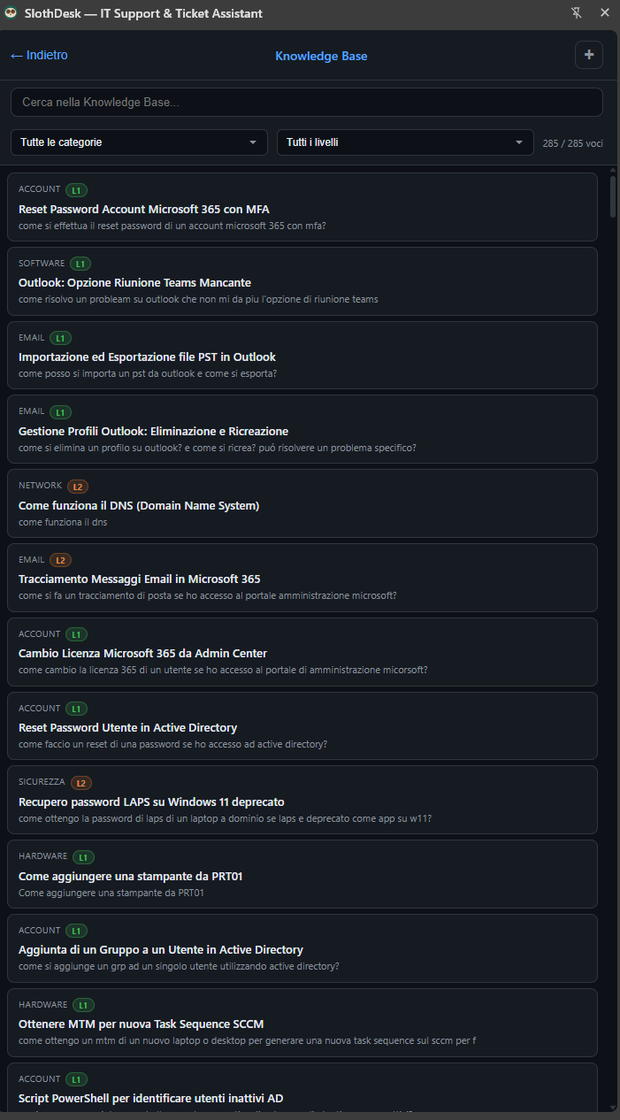
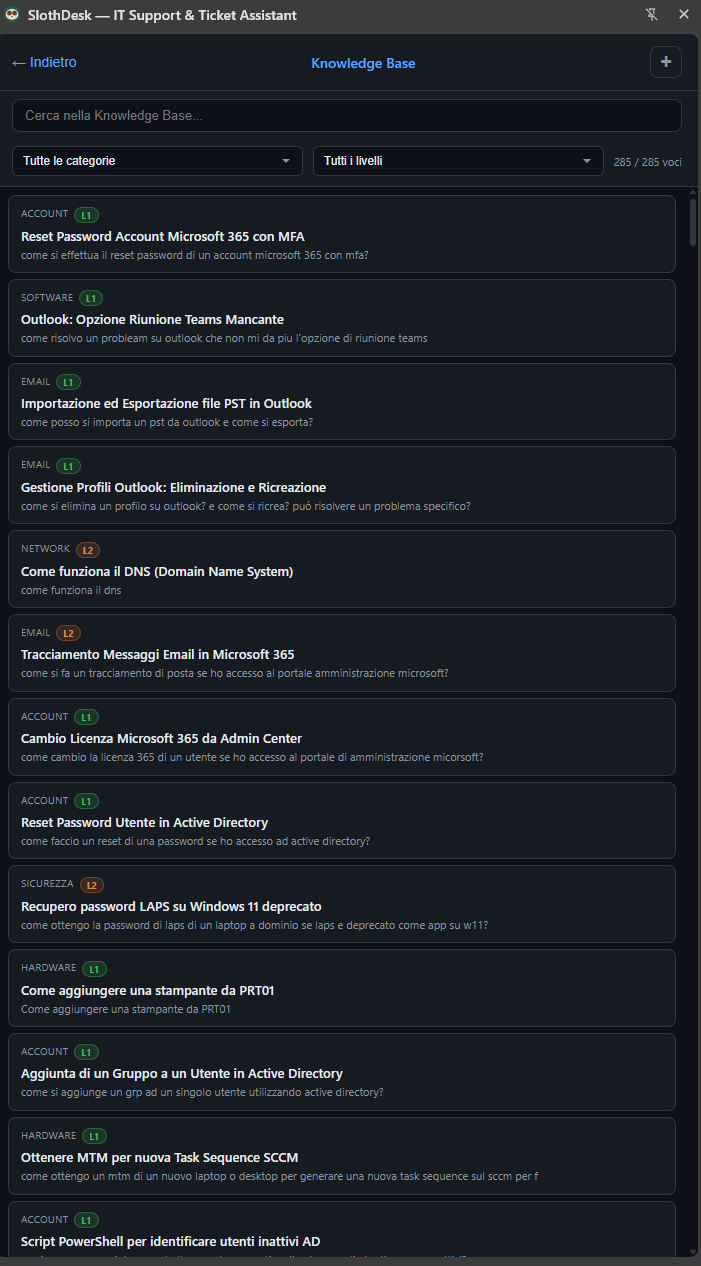
feat(slothdesk): le schermate si ingrandiscono
Le miniature erano illeggibili e non si apriva nulla al clic. Ora
ciascuna apre a schermo intero, con frecce per passare da una
all'altra, chiusura con Esc o clic sullo sfondo, e navigazione da
tastiera con le frecce direzionali.

Le immagini tornano a risoluzione piena, altrimenti da ingrandite si
sarebbero viste peggio di prima.

diff --git a/public/slothdesk/index.html b/public/slothdesk/index.html
@@ -147,15 +147,24 @@
 
   <div class="vetrina">
     <figure>
-      <img src="schermata-risposte.png" alt="Elenco delle risposte pronte con i filtri per livello e categoria" loading="lazy">
+      <button type="button" class="lente" data-img="schermata-risposte.png" data-txt="Risposte pronte">
+        <img src="schermata-risposte.png" alt="Elenco delle risposte pronte con i filtri per livello e categoria" loading="lazy">
+        <span class="zoom">ingrandisci</span>
+      </button>
       <figcaption><strong>Risposte pronte</strong>Filtri per livello e categoria, italiano e inglese, copia con un clic.</figcaption>
     </figure>
     <figure>
-      <img src="schermata-kb.png" alt="Knowledge base con la ricerca e i filtri per categoria e livello" loading="lazy">
+      <button type="button" class="lente" data-img="schermata-kb.png" data-txt="Knowledge base">
+        <img src="schermata-kb.png" alt="Knowledge base con la ricerca e i filtri per categoria e livello" loading="lazy">
+        <span class="zoom">ingrandisci</span>
+      </button>
       <figcaption><strong>Knowledge base</strong>Ricerca su titolo, domanda e risposta. Ogni voce è modificabile.</figcaption>
     </figure>
     <figure>
-      <img src="schermata-ai.png" alt="Assistente AI con le tre modalità e l'avviso sui dati personali" loading="lazy">
+      <button type="button" class="lente" data-img="schermata-ai.png" data-txt="Assistente AI">
+        <img src="schermata-ai.png" alt="Assistente AI con le tre modalità e l'avviso sui dati personali" loading="lazy">
+        <span class="zoom">ingrandisci</span>
+      </button>
       <figcaption><strong>Assistente AI</strong>Tre modalità, e l'avviso sui dati personali sempre sotto gli occhi.</figcaption>
     </figure>
   </div>
@@ -236,6 +245,66 @@
 </main>
 
 <footer>SlothDesk — <a href="assistenza.html">Assistenza</a> · <a href="privacy.html">Privacy</a></footer>
+
+<!-- Ingranditore delle schermate -->
+<div class="lightbox" id="lightbox" hidden>
+  <button type="button" class="lb-chiudi" id="lbChiudi" aria-label="Chiudi">&times;</button>
+  <button type="button" class="lb-nav lb-prec" id="lbPrec" aria-label="Precedente">&#8249;</button>
+  <img id="lbImg" src="" alt="">
+  <button type="button" class="lb-nav lb-succ" id="lbSucc" aria-label="Successiva">&#8250;</button>
+  <p class="lb-txt" id="lbTxt"></p>
+</div>
+
+<script>
+(function () {
+  var box   = document.getElementById('lightbox');
+  var img   = document.getElementById('lbImg');
+  var txt   = document.getElementById('lbTxt');
+  var lenti = Array.prototype.slice.call(document.querySelectorAll('.lente'));
+  if (!box || !lenti.length) return;
+
+  var i = 0;
+
+  function mostra(n) {
+    i = (n + lenti.length) % lenti.length;      // gira in tondo
+    var b = lenti[i];
+    img.src = b.dataset.img;
+    img.alt = b.querySelector('img').alt;
+    txt.textContent = b.dataset.txt + '  (' + (i + 1) + ' di ' + lenti.length + ')';
+  }
+
+  function apri(n) {
+    mostra(n);
+    box.hidden = false;
+    document.body.style.overflow = 'hidden';
+    document.getElementById('lbChiudi').focus();
+  }
+
+  function chiudi() {
+    box.hidden = true;
+    document.body.style.overflow = '';
+    if (lenti[i]) lenti[i].focus();
+  }
+
+  lenti.forEach(function (b, n) {
+    b.addEventListener('click', function () { apri(n); });
+  });
+
+  document.getElementById('lbChiudi').addEventListener('click', chiudi);
+  document.getElementById('lbPrec').addEventListener('click', function (e) { e.stopPropagation(); mostra(i - 1); });
+  document.getElementById('lbSucc').addEventListener('click', function (e) { e.stopPropagation(); mostra(i + 1); });
+
+  // clic sullo sfondo: chiude. Sull'immagine: no, altrimenti si chiude per sbaglio
+  box.addEventListener('click', function (e) { if (e.target === box) chiudi(); });
+
+  document.addEventListener('keydown', function (e) {
+    if (box.hidden) return;
+    if (e.key === 'Escape')     chiudi();
+    if (e.key === 'ArrowLeft')  mostra(i - 1);
+    if (e.key === 'ArrowRight') mostra(i + 1);
+  });
+})();
+</script>
 
 <script>
 (function () {

diff --git a/public/slothdesk/slothdesk.css b/public/slothdesk/slothdesk.css
@@ -363,3 +363,108 @@ footer {
   .splash { display: none; }
   .scena *, .scena { animation: none !important; }
 }
+
+/* --- Ingranditore delle schermate --------------------------------------- */
+
+.lente {
+  display: block;
+  width: 100%;
+  padding: 0;
+  border: 0;
+  background: none;
+  cursor: zoom-in;
+  position: relative;
+  border-radius: 10px;
+}
+
+.lente:focus-visible { outline: 2px solid var(--accent); outline-offset: 3px; }
+
+.zoom {
+  position: absolute;
+  left: 50%;
+  bottom: 12px;
+  transform: translateX(-50%);
+  padding: 5px 12px;
+  border-radius: 999px;
+  background: rgba(13, 17, 23, 0.88);
+  border: 1px solid var(--line);
+  color: var(--cream);
+  font-size: 12px;
+  opacity: 0;
+  transition: opacity 0.2s ease;
+  pointer-events: none;
+}
+
+.lente:hover .zoom, .lente:focus-visible .zoom { opacity: 1; }
+
+.lightbox {
+  position: fixed;
+  inset: 0;
+  z-index: 1000;
+  display: flex;
+  align-items: center;
+  justify-content: center;
+  gap: 10px;
+  padding: 24px;
+  background: rgba(6, 14, 12, 0.94);
+  cursor: zoom-out;
+}
+
+.lightbox[hidden] { display: none; }
+
+.lightbox img {
+  max-width: min(92vw, 760px);
+  max-height: 88vh;
+  width: auto;
+  height: auto;
+  border-radius: 10px;
+  border: 1px solid var(--line);
+  cursor: default;
+  box-shadow: 0 24px 60px rgba(0, 0, 0, 0.55);
+}
+
+.lb-chiudi, .lb-nav {
+  background: rgba(23, 51, 45, 0.9);
+  border: 1px solid var(--line);
+  color: var(--cream);
+  border-radius: 50%;
+  cursor: pointer;
+  line-height: 1;
+  transition: background 0.2s ease, border-color 0.2s ease;
+}
+
+.lb-chiudi:hover, .lb-nav:hover { background: var(--panel-2); border-color: var(--accent); }
+
+.lb-chiudi {
+  position: absolute;
+  top: 18px;
+  right: 20px;
+  width: 42px;
+  height: 42px;
+  font-size: 26px;
+}
+
+.lb-nav {
+  width: 46px;
+  height: 46px;
+  font-size: 30px;
+  flex-shrink: 0;
+}
+
+.lb-txt {
+  position: absolute;
+  bottom: 20px;
+  left: 0;
+  right: 0;
+  text-align: center;
+  color: var(--muted);
+  font-size: 13.5px;
+  margin: 0;
+  pointer-events: none;
+}
+
+@media (max-width: 620px) {
+  .lightbox { padding: 12px; gap: 4px; }
+  .lb-nav { width: 38px; height: 38px; font-size: 24px; }
+  .lightbox img { max-width: 84vw; }
+}
